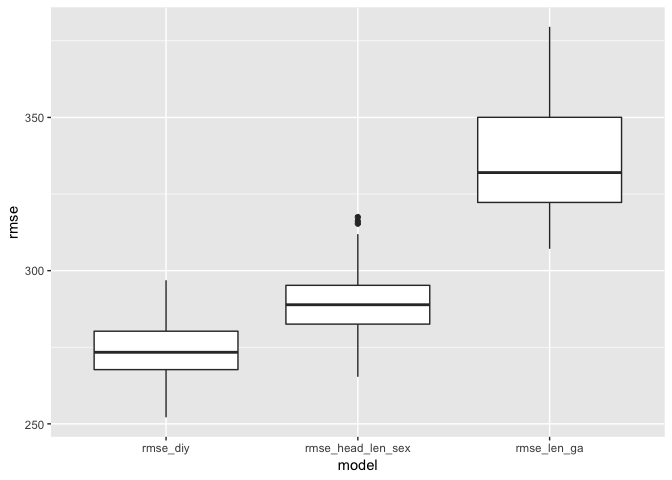
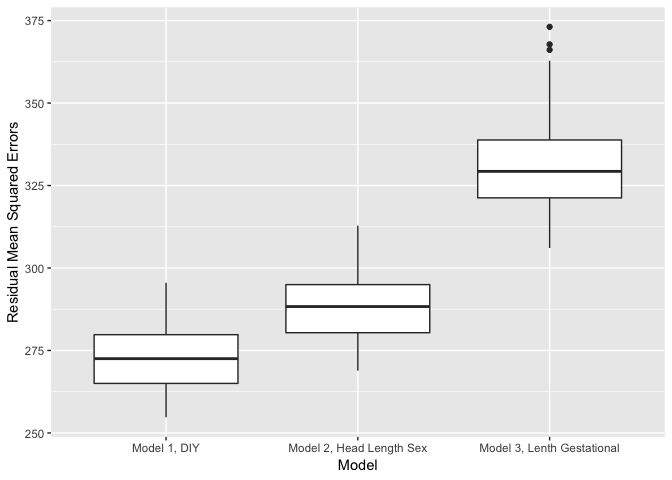
add more descriptions

diff --git a/p8105_hw6_zf2213.md b/p8105_hw6_zf2213.md
@@ -123,7 +123,9 @@ have lower solved cases odds ratios.
 
 ``` r
 birthweight <- read_csv("./birthweight.csv") %>% 
-# recode the factor variables
+  # recode the factor variables
+  # note that for father and mother's races, half is white and half is non white,
+    # so collapse to two categories
     mutate(babysex = fct_recode(as.factor(babysex), "female" = "2", "male" = "1"),
                  # female as reference
                  babysex = fct_relevel(babysex, "female"),
@@ -152,6 +154,10 @@ birthweight <- read_csv("./birthweight.csv") %>%
     ## )
 
     ## See spec(...) for full column specifications.
+
+Turn father’s race, mother’s race, malformation, baby’s sex into factor
+variables. Since black and white are majority, collapse the race
+variables into two categories, white and non-white.
 
 ``` r
 stepwise_reg <- function(data, y, in_alpha = 0.1) {
@@ -292,20 +298,23 @@ birthweight_lm <- stepwise_reg(data = birthweight, y = "bwt", in_alpha = 0.01)
     ## [1] "step 9 : predictor parity with minimum p value 0.0181719918778636 > 0.01 , end search."
 
 ``` r
-birthweight_lm[[1]] %>% summary() %>% broom::tidy() %>% knitr::kable()
+birthweight_lm[[1]] %>%
+    summary() %>%
+    broom::tidy()
 ```
 
-| term        |      estimate |  std.error |   statistic |   p.value |
-| :---------- | ------------: | ---------: | ----------: | --------: |
-| (Intercept) | \-5793.517257 | 97.5141826 | \-59.412048 | 0.0000000 |
-| bhead       |    132.197131 |  3.4336341 |   38.500646 | 0.0000000 |
-| blength     |     74.793122 |  2.0198949 |   37.028224 | 0.0000000 |
-| mracewhite  |    138.120737 |  8.8801240 |   15.553920 | 0.0000000 |
-| delwt       |      3.502490 |  0.2803006 |   12.495475 | 0.0000000 |
-| gaweeks     |     11.617476 |  1.4559237 |    7.979454 | 0.0000000 |
-| smoken      |    \-4.841831 |  0.5858388 |  \-8.264784 | 0.0000000 |
-| ppbmi       |   \-12.185915 |  1.9028329 |  \-6.404091 | 0.0000000 |
-| babysexmale |   \-29.003909 |  8.4510671 |  \-3.431982 | 0.0006048 |
+    ## # A tibble: 9 x 5
+    ##   term        estimate std.error statistic   p.value
+    ##   <chr>          <dbl>     <dbl>     <dbl>     <dbl>
+    ## 1 (Intercept) -5794.      97.5      -59.4  0.       
+    ## 2 bhead         132.       3.43      38.5  3.45e-279
+    ## 3 blength        74.8      2.02      37.0  5.22e-261
+    ## 4 mracewhite    138.       8.88      15.6  3.99e- 53
+    ## 5 delwt           3.50     0.280     12.5  3.18e- 35
+    ## 6 gaweeks        11.6      1.46       7.98 1.87e- 15
+    ## 7 smoken         -4.84     0.586     -8.26 1.84e- 16
+    ## 8 ppbmi         -12.2      1.90      -6.40 1.67e- 10
+    ## 9 babysexmale   -29.0      8.45      -3.43 6.05e-  4
 
 Do a stepwise forward regression: Start with a model with only
 intercept, Y \~ 1, fit each predictors into the model to see if its p
@@ -314,7 +323,12 @@ alpha level, then add to the model, Y \~ X1. Then, fit the remaining
 predictors one by one into the model with X1, if the p value small than
 predefined alpha level, then add to the model, Y \~ X1 + X2. Repeat the
 cycles until no remaining predictors will have p value less than
-predefined alpha level, return the model and selection history.
+predefined alpha level, return the model and selection history. Define a
+function to do the stepwise regression, note that this function only
+works for factor variable with two levels. frace and mrace has strong
+correlation, ppbmi and wtgain also has strong correlation. They will
+cause multicollinearity issues if both partners in each pair exist in
+the model.
 
 ``` r
 # plot residue mean squre errors against predictions
@@ -325,22 +339,46 @@ birthweight %>%
     modelr::add_residuals(model = birthweight_lm[[1]]) %>% 
     # plot
     ggplot(aes(x = pred, y = resid)) +
-      geom_point()
+      geom_point() +
+      labs(
+        x = "Fitted values (birth weight (grams))",
+        y = "Residuals"
+      )
 ```
 
 ![](p8105_hw6_zf2213_files/figure-gfm/residuals_vs_predictions-1.png)<!-- -->
 
 Model \#1:
 
-baby’s head circumference (cm) baby’s birth length (cm) mother’s race …
+baby’s head circumference (cm),
+
+baby’s birth length (cm),
+
+mother’s race,
+
+mother’s weight at delivery (pounds),
+
+gestational age (week),
+
+cigarettes smoked per day during pregnancy,
+
+mother’s pregnancy BMI,
+
+baby’s sex
 
 Model \#2:
 
-baby’s head circumference (cm), baby’s length (cm), baby’s sex
+baby’s head circumference (cm),
+
+baby’s length (cm),
+
+baby’s sex
 
 Model \#3:
 
-baby’s length (cm), gestational age (week)
+baby’s length (cm),
+
+gestational age (week)
 
 ``` r
 # diy model
@@ -379,10 +417,17 @@ crossv_mc(data = birthweight, n = 100) %>%
     ) %>% 
     # get mean square error
     select(starts_with("rmse")) %>% 
-    gather(key = model, value = rmse) %>% 
+    gather(key = model, value = rmse) %>%
+    mutate(model = recode(model, "rmse_diy" = "Model 1, DIY",
+                                                "rmse_len_ga" = "Model 3, Lenth Gestational",
+                                                "rmse_head_len_sex" = "Model 2, Head Length Sex")) %>%
     # plot residual mean square error of the three models
     ggplot(aes(x = model, y = rmse)) +
-      geom_boxplot()
+      geom_boxplot() +
+        labs(
+            x = "Model",
+            y = "Residual Mean Squared Errors"
+        )
 ```
 
 ![](p8105_hw6_zf2213_files/figure-gfm/compare_models-1.png)<!-- -->
